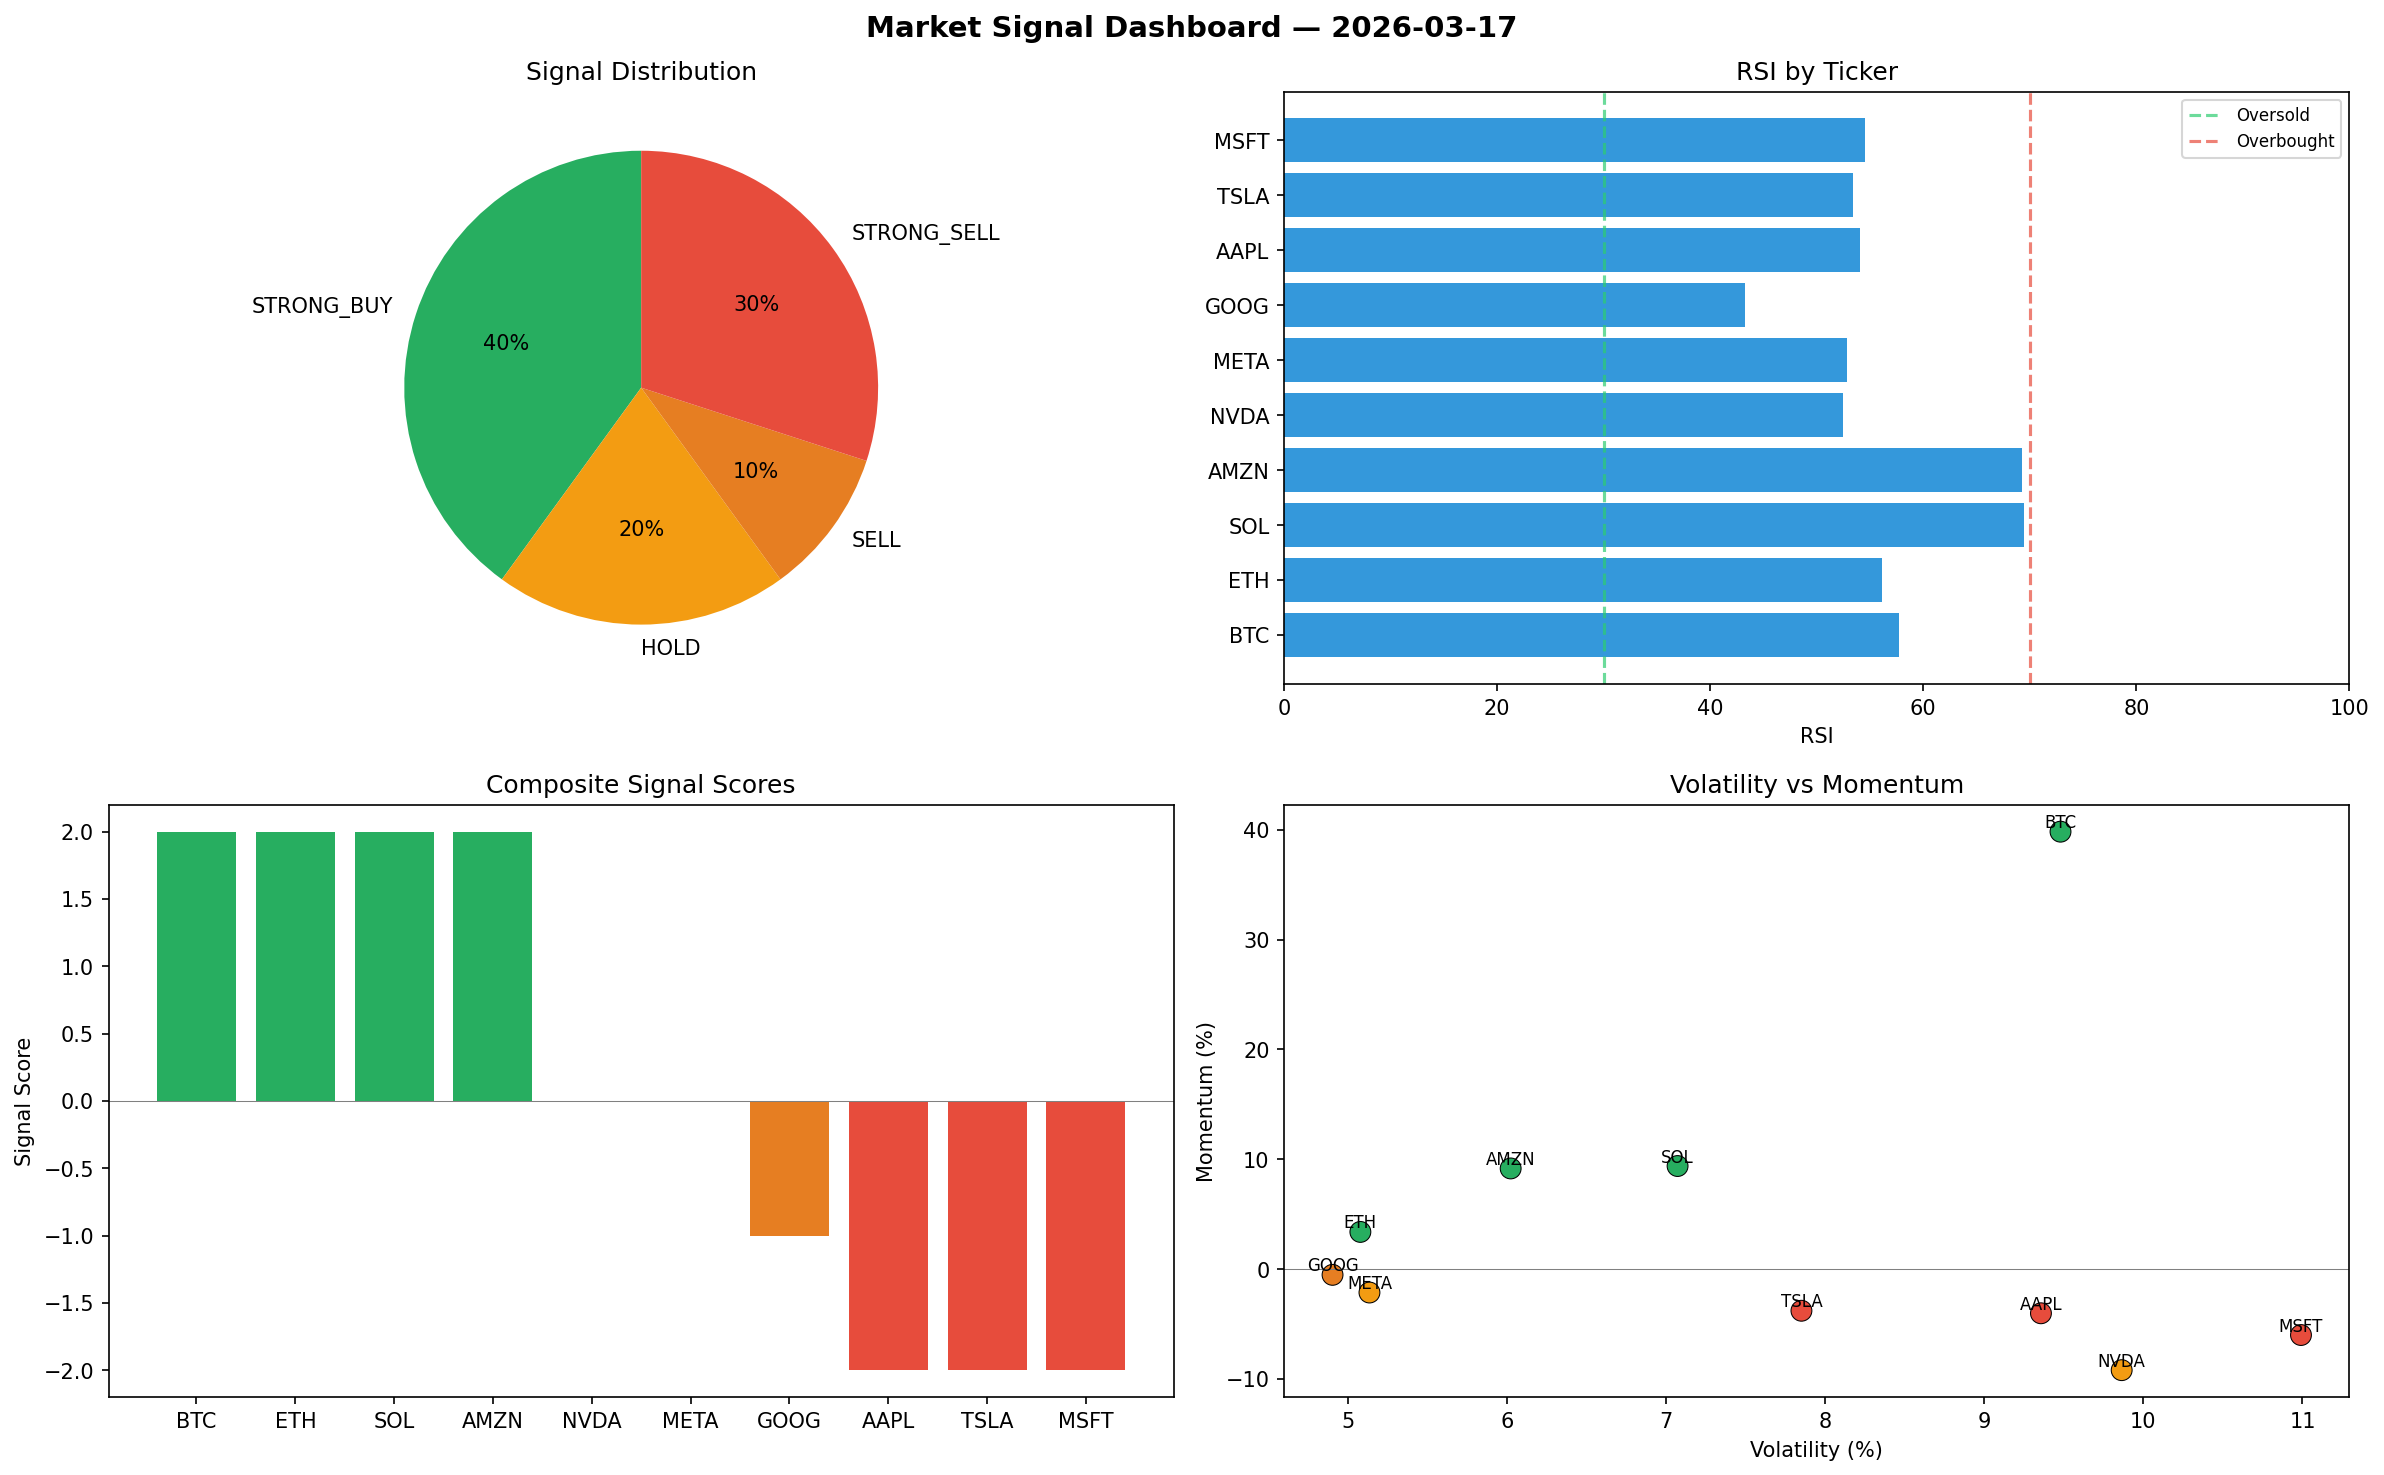
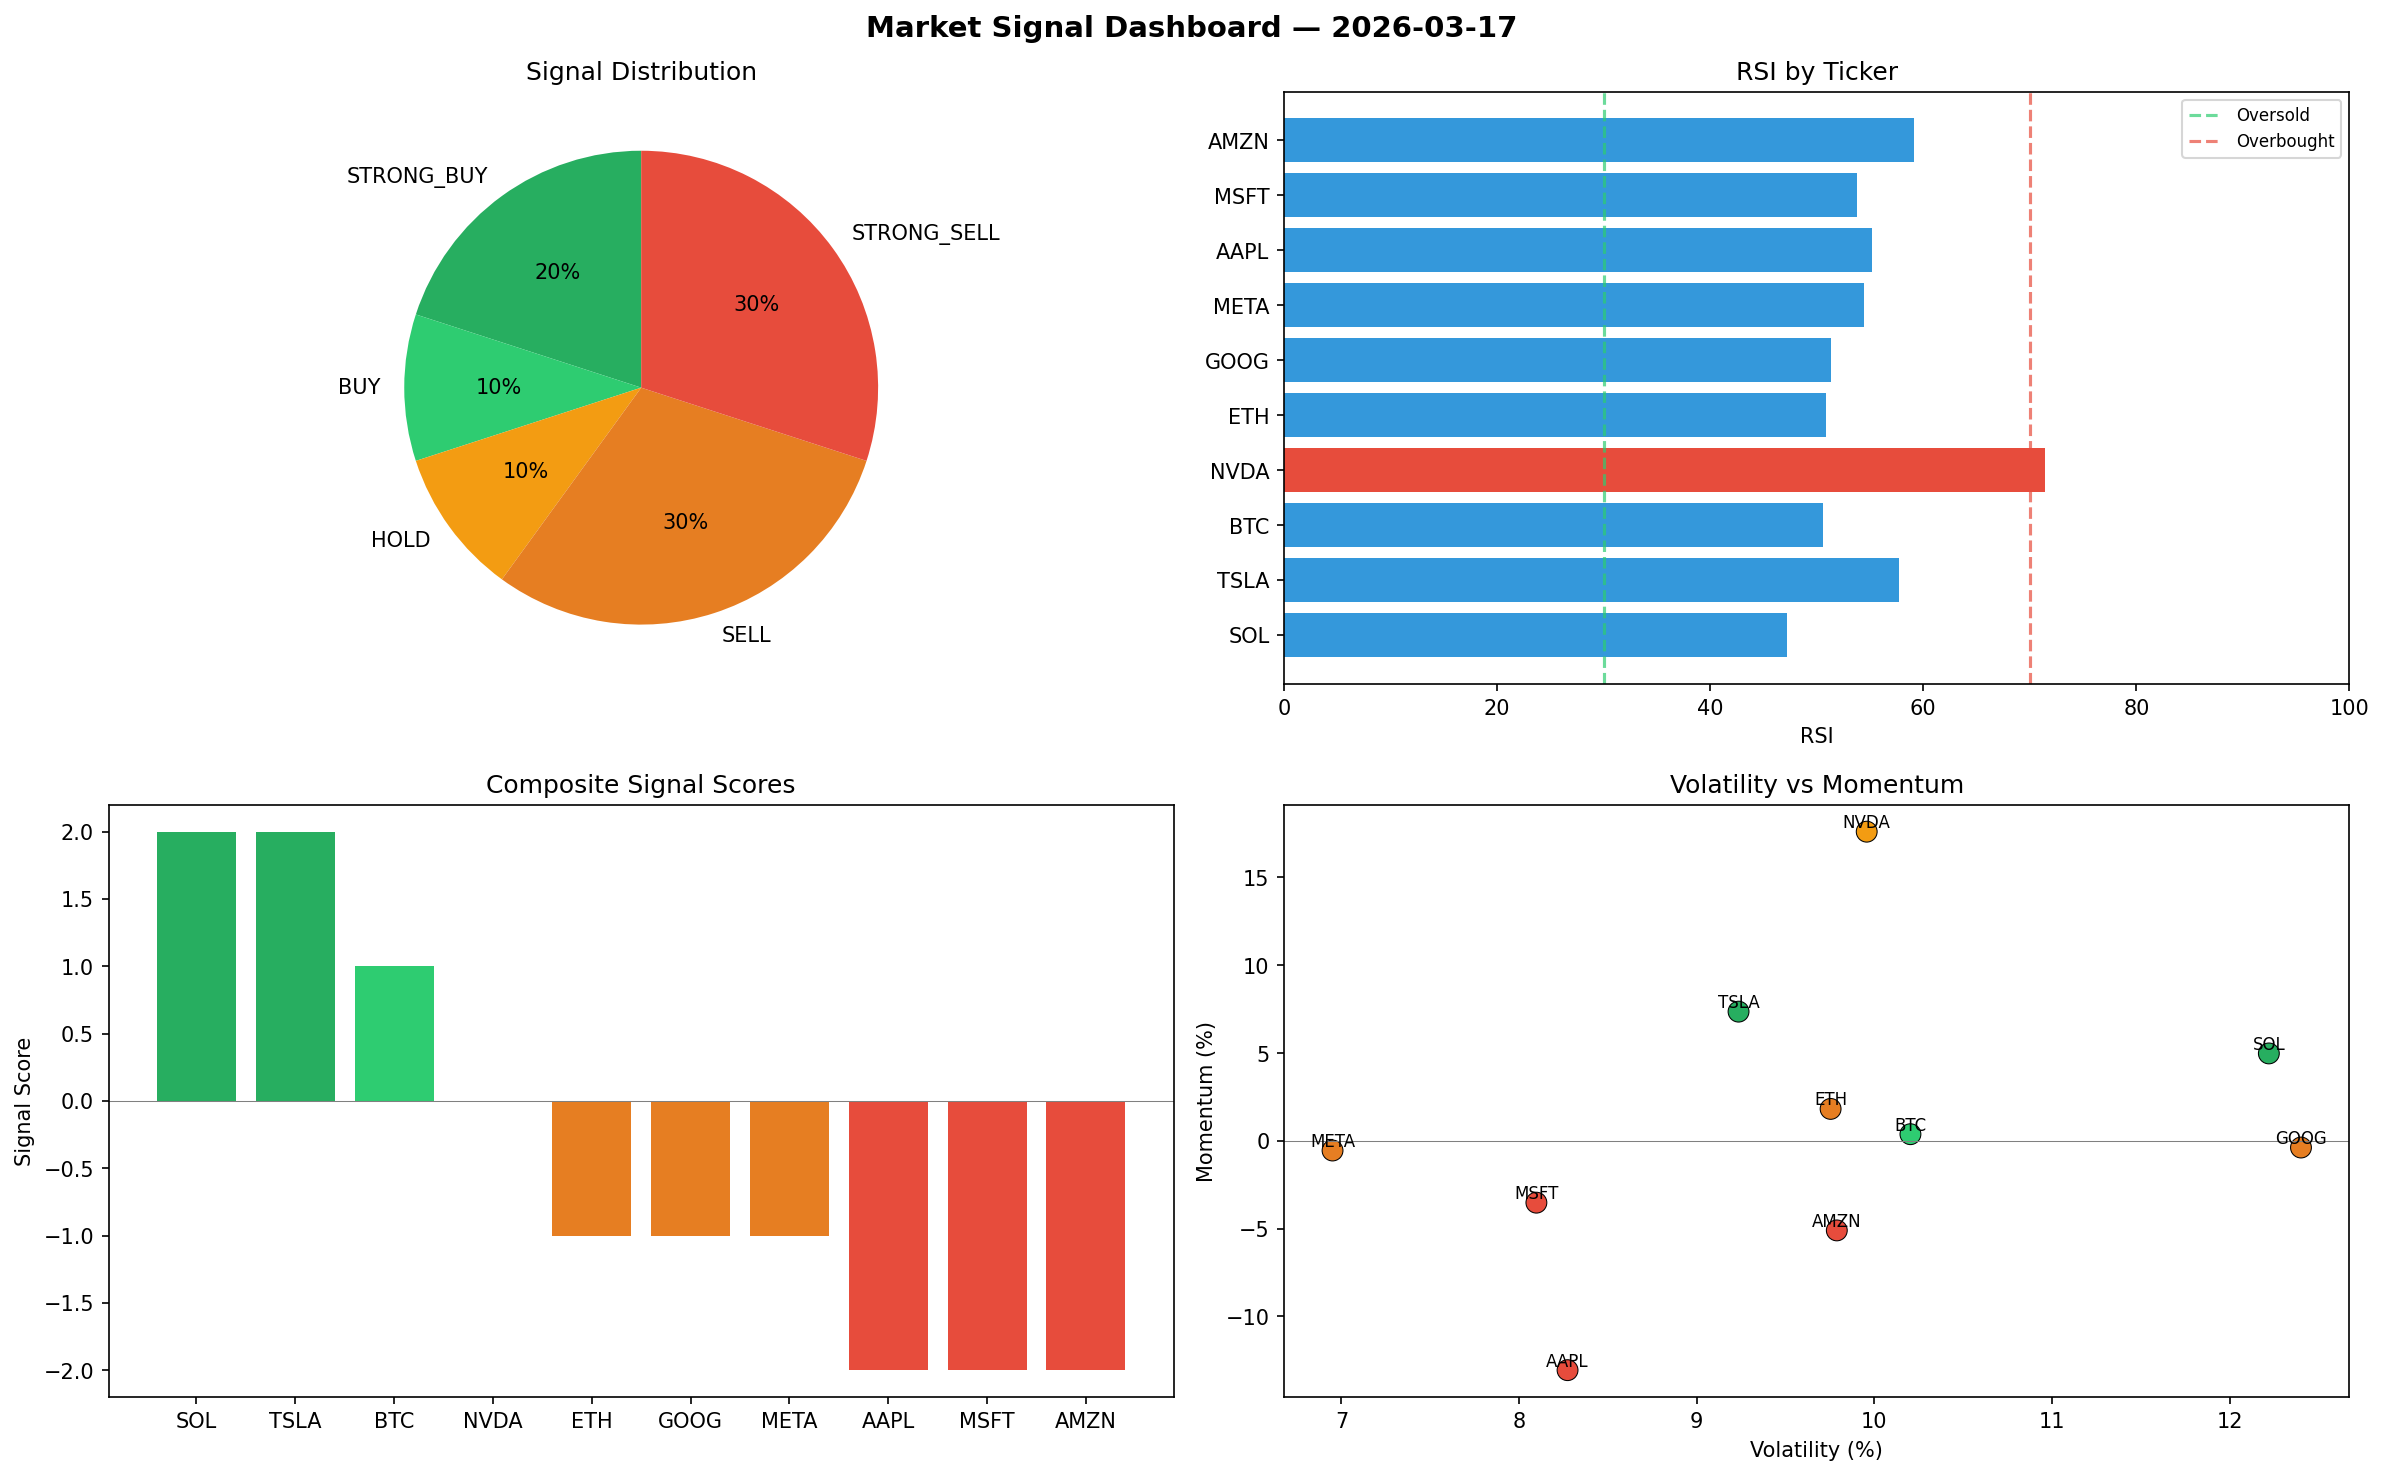
automated-bots: market signals 2026-03-17T09:13

diff --git a/logs/2026-03-17.md b/logs/2026-03-17.md
@@ -1,6 +1,6 @@
 # Market Signal Report — 2026-03-17
 
-**Run ID:** `2ffd7613e4` | **Buy:** 4 | **Sell:** 4 | **Hold:** 2
+**Run ID:** `cbc5ff5c2d` | **Buy:** 3 | **Sell:** 6 | **Hold:** 1
 
 ![Dashboard](2026-03-17_dashboard.png)
 
@@ -8,28 +8,28 @@
 
 | Ticker | Price | Signal | Score | RSI | Momentum | Confidence |
 |--------|-------|--------|-------|-----|----------|------------|
-| BTC | $3767.07 | **STRONG_BUY** | 2 | 57.71 | 0.3983 | 0.5 |
-| ETH | $2272.9 | **STRONG_BUY** | 2 | 56.08 | 0.0338 | 0.5 |
-| SOL | $2918.77 | **STRONG_BUY** | 2 | 69.41 | 0.0938 | 0.5 |
-| AMZN | $4795.88 | **STRONG_BUY** | 2 | 69.27 | 0.0916 | 0.5 |
-| NVDA | $3226.68 | **HOLD** | 0 | 52.45 | -0.0921 | 0.0 |
-| META | $550.67 | **HOLD** | 0 | 52.83 | -0.0214 | 0.0 |
-| GOOG | $2804.04 | **SELL** | -1 | 43.22 | -0.0053 | 0.25 |
-| AAPL | $4464.25 | **STRONG_SELL** | -2 | 54.02 | -0.0403 | 0.5 |
-| TSLA | $3557.9 | **STRONG_SELL** | -2 | 53.42 | -0.038 | 0.5 |
-| MSFT | $248.23 | **STRONG_SELL** | -2 | 54.54 | -0.0601 | 0.5 |
+| SOL | $2136.56 | **STRONG_BUY** | 2 | 47.16 | 0.0498 | 0.5 |
+| TSLA | $1038.07 | **STRONG_BUY** | 2 | 57.74 | 0.0736 | 0.5 |
+| BTC | $4681.64 | **BUY** | 1 | 50.58 | 0.0038 | 0.25 |
+| NVDA | $2569.07 | **HOLD** | 0 | 71.47 | 0.1761 | 0.0 |
+| ETH | $3206.16 | **SELL** | -1 | 50.88 | 0.0182 | 0.25 |
+| GOOG | $4244.01 | **SELL** | -1 | 51.35 | -0.0038 | 0.25 |
+| META | $1524.95 | **SELL** | -1 | 54.46 | -0.0055 | 0.25 |
+| AAPL | $3611.67 | **STRONG_SELL** | -2 | 55.15 | -0.1306 | 0.5 |
+| MSFT | $2829.29 | **STRONG_SELL** | -2 | 53.77 | -0.0352 | 0.5 |
+| AMZN | $1544.44 | **STRONG_SELL** | -2 | 59.17 | -0.051 | 0.5 |
 
 ## Delta vs Yesterday
 
 | Ticker | Today | Yesterday | Price Change | Signal Changed |
 |--------|-------|-----------|-------------|----------------|
-| BTC | STRONG_BUY | HOLD | 📈 233.07% | ⚠ YES |
-| ETH | STRONG_BUY | STRONG_BUY | 📉 -54.83% | — |
-| SOL | STRONG_BUY | STRONG_BUY | 📈 24.67% | — |
-| AMZN | STRONG_BUY | STRONG_SELL | 📈 374.91% | ⚠ YES |
-| NVDA | HOLD | BUY | 📉 -31.36% | ⚠ YES |
-| META | HOLD | HOLD | 📉 -4.26% | — |
-| GOOG | SELL | STRONG_BUY | 📉 -13.03% | ⚠ YES |
-| AAPL | STRONG_SELL | HOLD | 📈 115.96% | ⚠ YES |
-| TSLA | STRONG_SELL | STRONG_BUY | 📈 72.0% | ⚠ YES |
-| MSFT | STRONG_SELL | STRONG_SELL | 📉 -93.23% | — |
+| SOL | STRONG_BUY | STRONG_BUY | 📉 -8.74% | — |
+| TSLA | STRONG_BUY | STRONG_BUY | 📉 -49.82% | — |
+| BTC | BUY | HOLD | 📈 313.94% | ⚠ YES |
+| NVDA | HOLD | BUY | 📉 -45.35% | ⚠ YES |
+| ETH | SELL | STRONG_BUY | 📉 -36.29% | ⚠ YES |
+| GOOG | SELL | STRONG_BUY | 📈 31.64% | ⚠ YES |
+| META | SELL | HOLD | 📈 165.13% | ⚠ YES |
+| AAPL | STRONG_SELL | HOLD | 📈 74.72% | ⚠ YES |
+| MSFT | STRONG_SELL | STRONG_SELL | 📉 -22.86% | — |
+| AMZN | STRONG_SELL | STRONG_SELL | 📈 52.94% | — |
